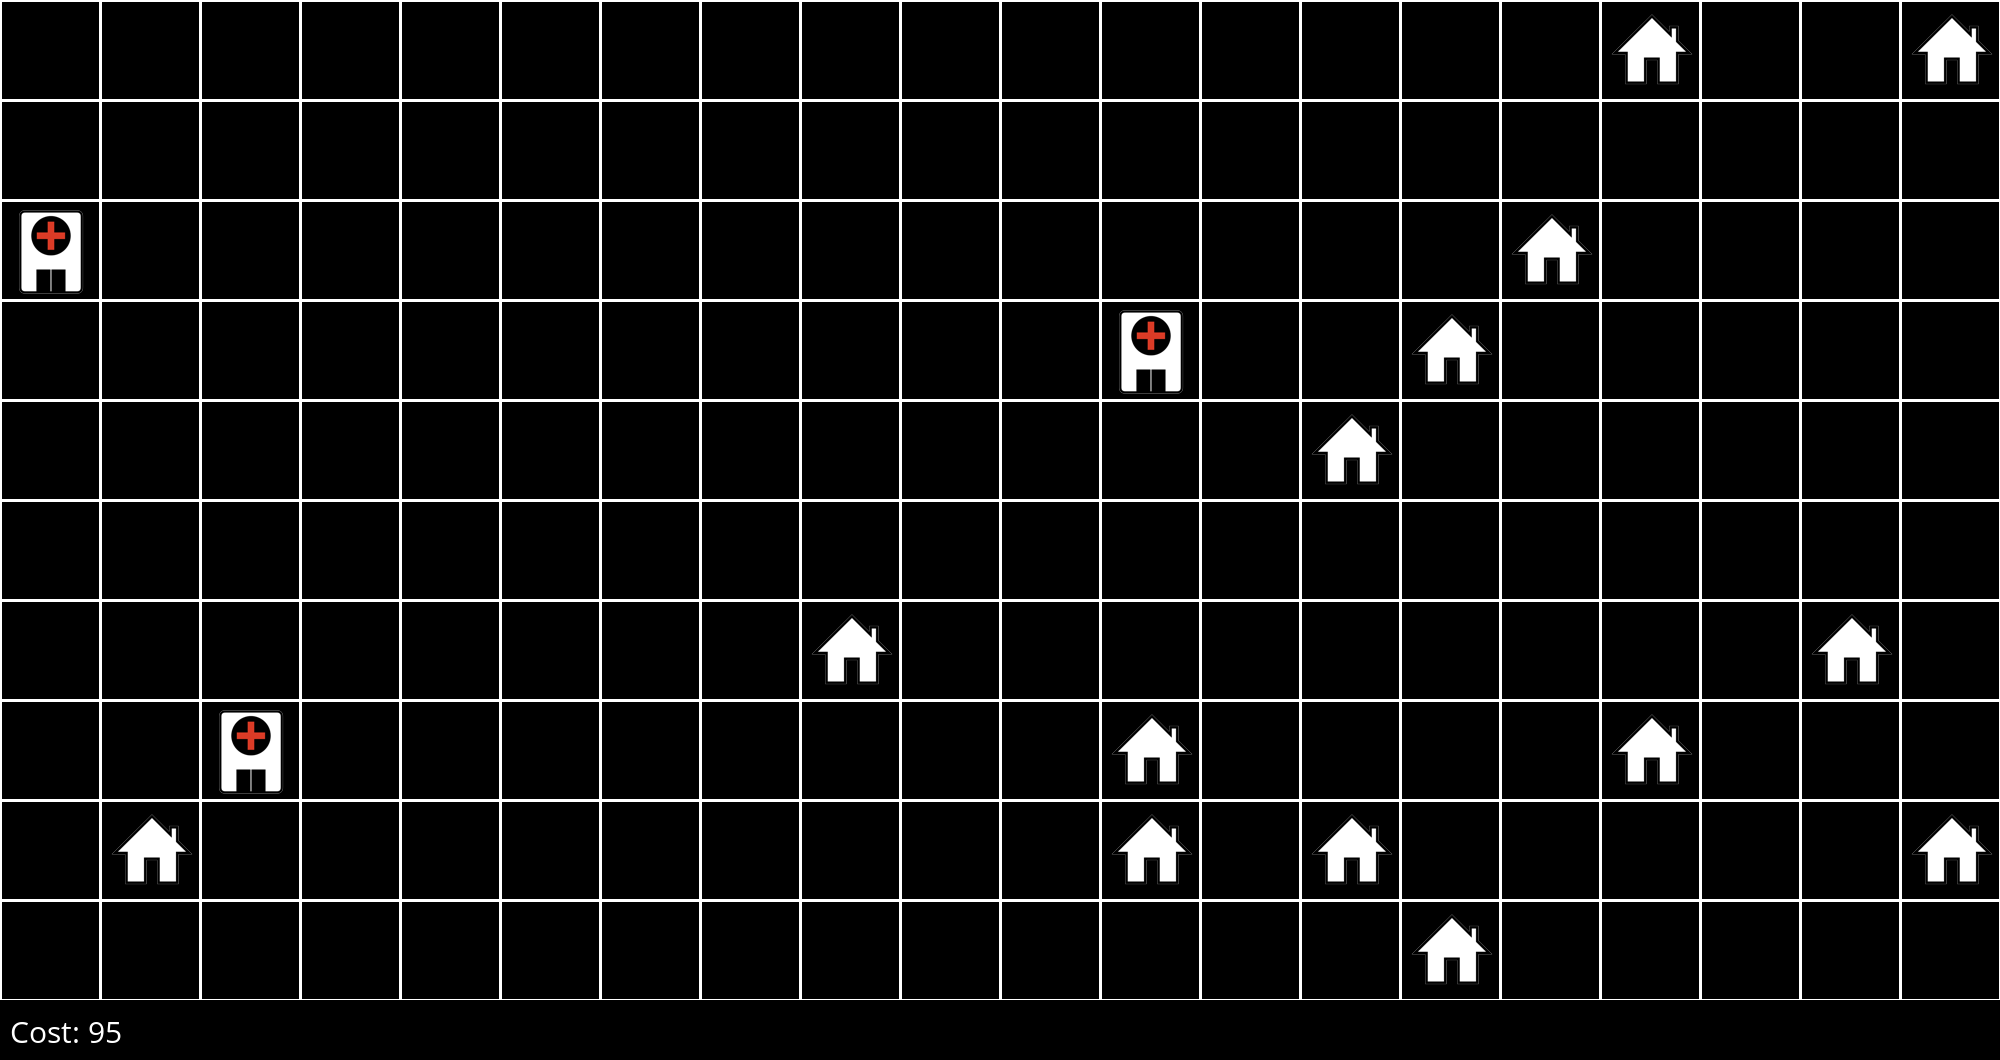
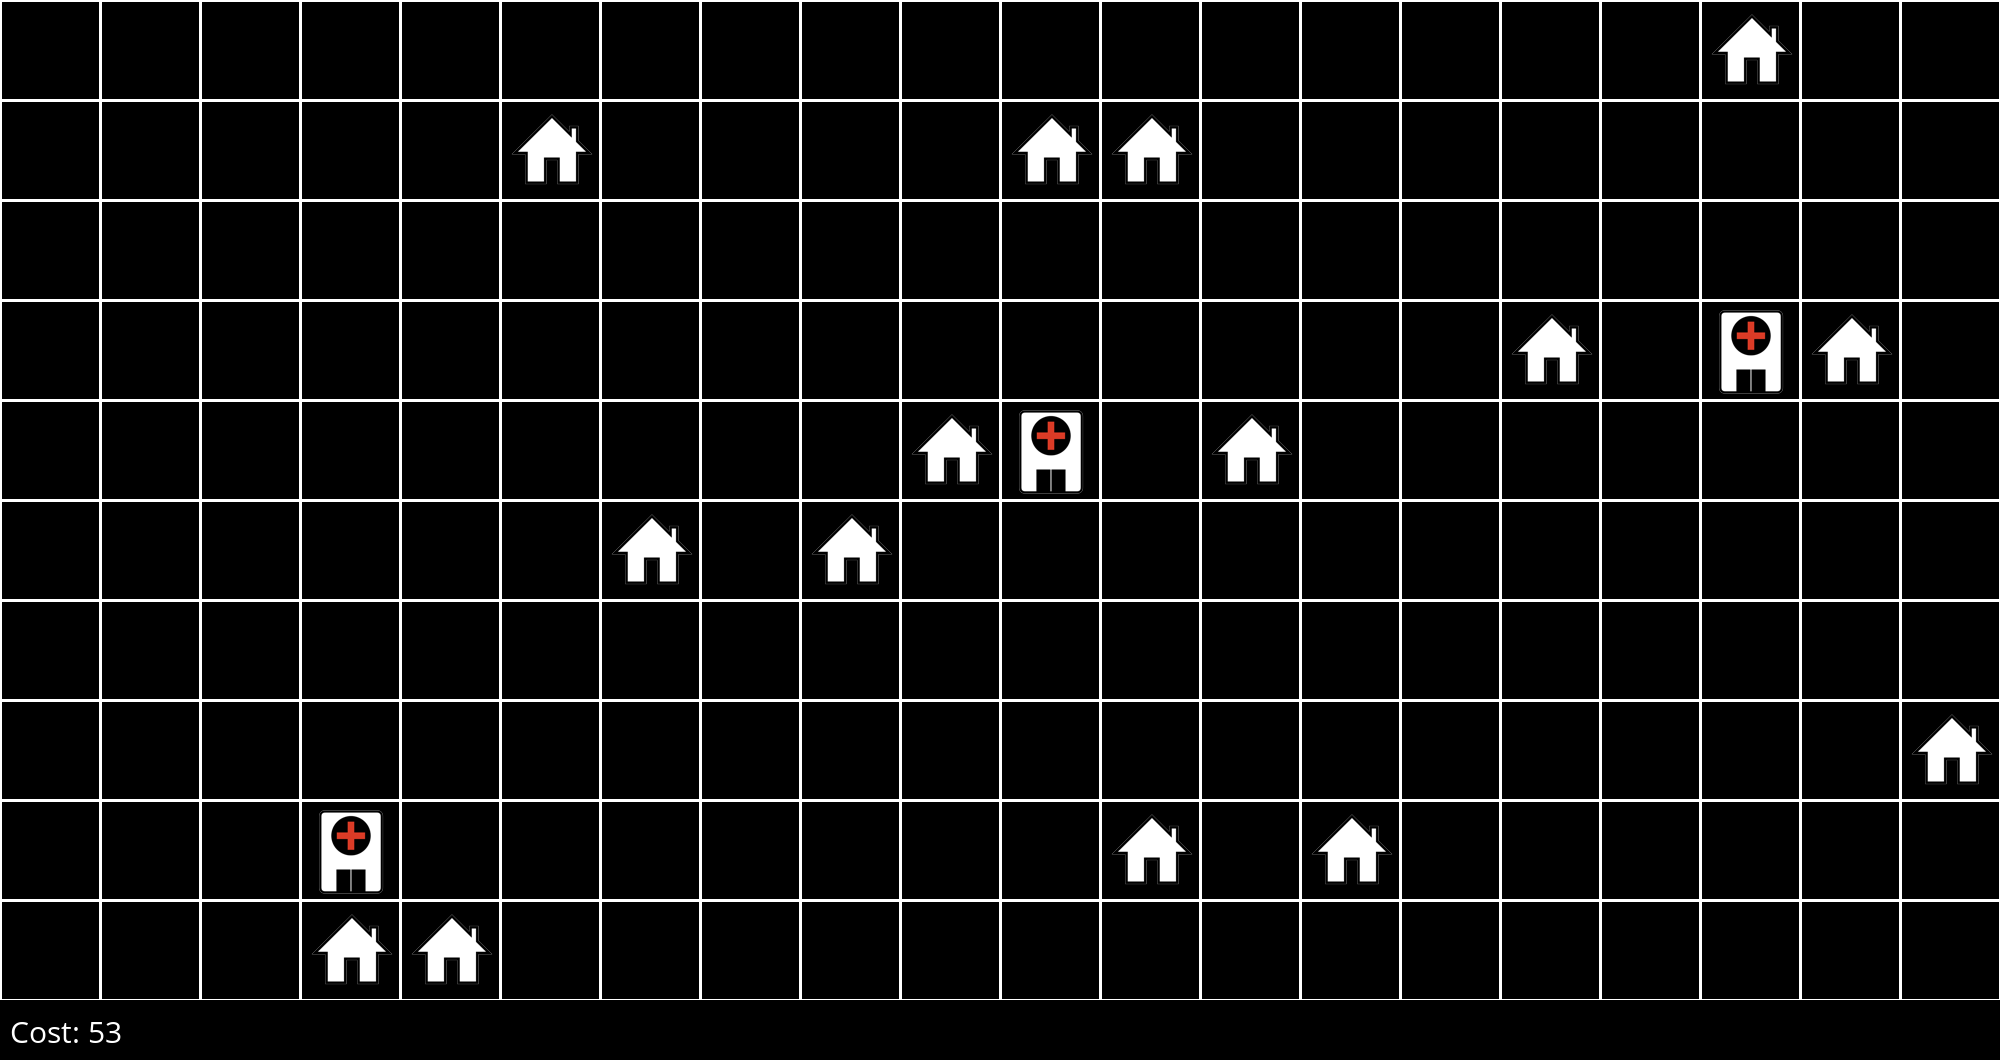
random restart

diff --git a/03_OPTIMIZATION/src3/hospitals/hospitals.py b/03_OPTIMIZATION/src3/hospitals/hospitals.py
@@ -196,4 +196,7 @@ for i in range(15):
     s.add_house(random.randrange(s.height), random.randrange(s.width))
 
 # Use local search to determine hospital placement
-hospitals = s.hill_climb(image_prefix="hospitals", log=True)
+# hospitals = s.hill_climb(image_prefix="hospitals", log=True)
+
+# using random-restart strategy
+hospitals = s.random_restart(20, image_prefix="hospitals", log=True)
